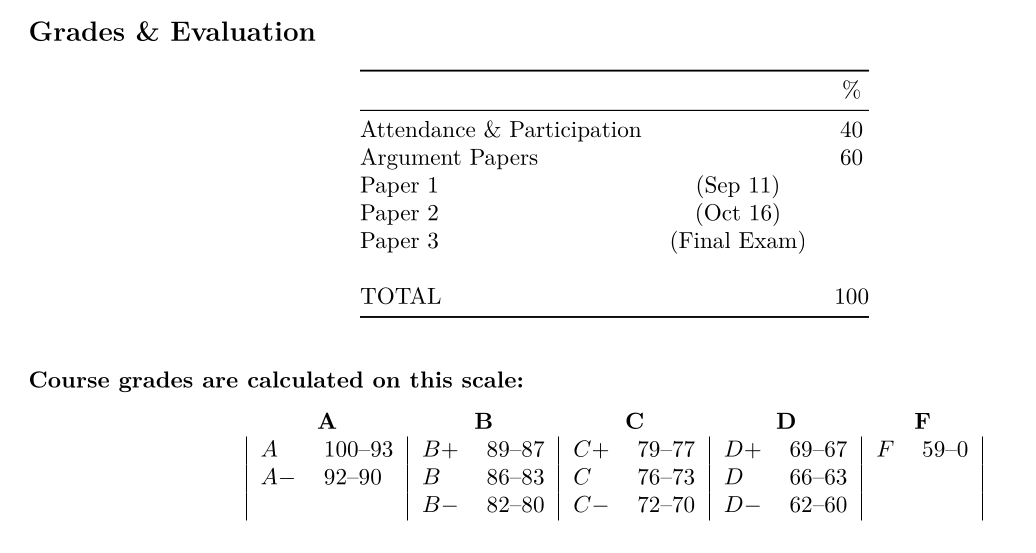
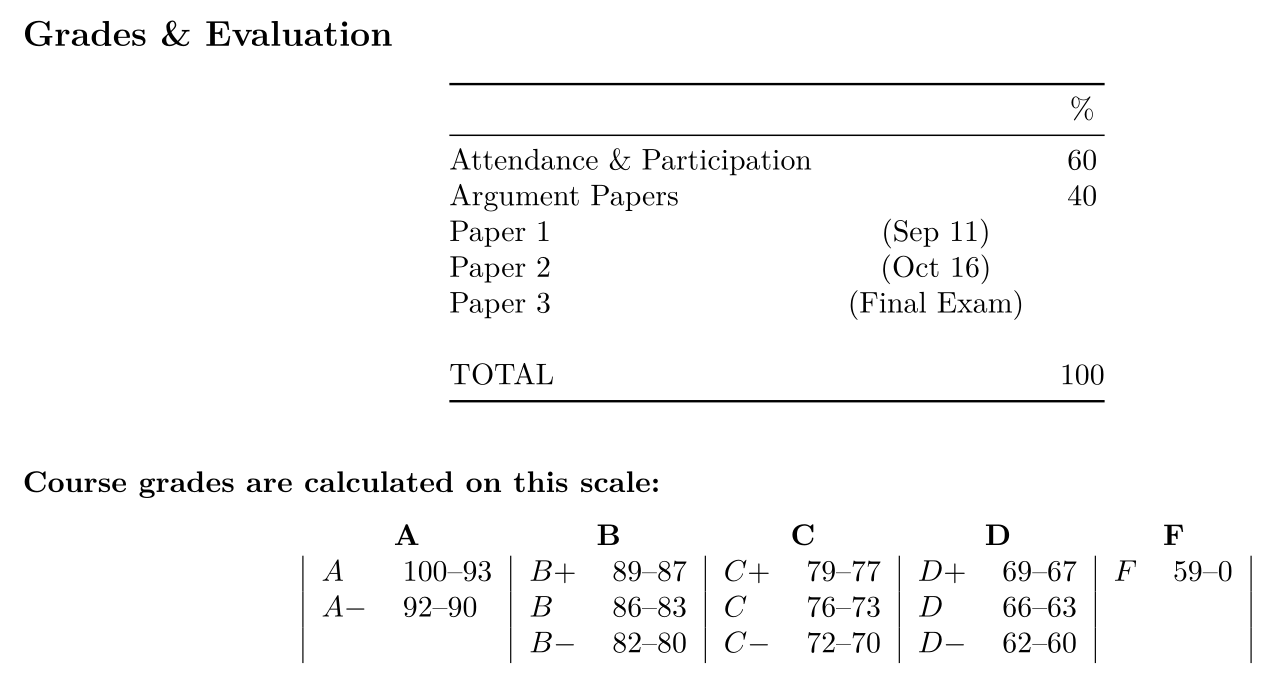
Ongoing tweaks

diff --git a/01-2-Arguments_Logic.html b/01-2-Arguments_Logic.html
@@ -135,8 +135,8 @@
 <div class="r-fit-text">
 <p><strong>I. Arguments, Evidence and International Relations</strong></p>
 <ol type="1">
-<li><p>The elements of effective arguments</p></li>
-<li><p>Evaluating our examples</p></li>
+<li><p>The components of an effective argument</p></li>
+<li><p>Diagramming our examples</p></li>
 </ol>
 </div>
 <p><br></p>
@@ -191,9 +191,18 @@
 </div>
 </div>
 <aside class="notes">
-<p><strong>Any questions on the course, its structure or the policies in the syllabus?</strong></p>
+<p><em>Since new students have likely joined hit these components on the slide</em></p>
+<ul>
+<li><em>AND DON’T FORGET, you have to click the tabs on the slide, not on your version of it</em></li>
+</ul>
 <p><br></p>
-<p><strong>SLIDE</strong>: Ok, let’s turn our attention to making and evaluating arguments</p>
+<ol type="1">
+<li><p><strong>Any questions on the components of your grade in this class?</strong></p></li>
+<li><p><strong>Is everybody clear on the attendace and participation policies?</strong></p></li>
+<li><p>**Any questions on the AI usage policy in this class?*</p></li>
+</ol>
+<p><br></p>
+<p><strong>SLIDE</strong>: Ok, today we focus on diagramming and evaluating arguments</p>
 <style type="text/css">
         span.MJX_Assistive_MathML {
           position:absolute!important;
@@ -206,44 +215,17 @@
           display:block!important;
       }</style></aside>
 </section>
-<section id="unpacking-an-argument" class="slide level2 center" data-background-image="Images/background-worldmap4.png">
-<h2>Unpacking an Argument</h2>
+<section id="what-is-an-argument" class="slide level2 center" data-background-image="Images/background-worldmap4.png">
+<h2>What is an Argument?</h2>
 
-<img data-src="Images/01_1-woman-desk-paperwork.webp" style="display: block; margin: 0 auto" class="r-stretch"><aside class="notes">
-<p><strong>Before we talk about the arguments themselves, how did the task go for you?</strong></p>
+<img data-src="Images/01_2-Girl_yells_yak.jpg" style="display: block; margin: 0 auto" class="r-stretch"><aside class="notes">
+<p><strong>Ok, big picture, what is “an argument”?</strong></p>
+<p><em>Spitballing</em></p>
 <ul>
-<li><strong>How often have you been asked to do this kind of exercise before?</strong></li>
-</ul>
-<p><br></p>
-<p><strong>SLIDE</strong>: Let’s start by talking about the quality of an argument.</p>
-<style type="text/css">
-        span.MJX_Assistive_MathML {
-          position:absolute!important;
-          clip: rect(1px, 1px, 1px, 1px);
-          padding: 1px 0 0 0!important;
-          border: 0!important;
-          height: 1px!important;
-          width: 1px!important;
-          overflow: hidden!important;
-          display:block!important;
-      }</style></aside>
-</section>
-<section id="section" class="slide level2 center" data-background-image="Images/01_2-Girl_yells_yak.jpg">
-<h2></h2>
-<aside class="notes">
-<p>Bad arguments are everywhere and are common in the political arena.</p>
-<ul>
-<li><p>In fact, when you say “politics” I think many people’s minds go to something like this.</p></li>
-<li><p>Clearly this is not what we aspire to.</p></li>
-</ul>
-<p><br></p>
-<p>In academic terms, our definition of a good argument tends to focus on whether it convinces you of its thesis</p>
-<ul>
-<li><p><strong>What is a thesis?</strong></p>
-<ul>
-<li><p>(The central idea of your argument.)</p></li>
-<li><p>The thing you want people to take away from it.</p></li>
-</ul></li>
+<li><p>(Two or more viewpoints clashing on a topic?)</p></li>
+<li><p>(An effort to convince another person of your viewpoint?)</p></li>
+<li><p>(A screaming match?)</p></li>
+<li><p>(A competition?)</p></li>
 </ul>
 <p><br></p>
 <p><strong>When was the last time in your life someone changed your mind about something with an argument?</strong></p>
@@ -252,10 +234,7 @@
 <li><p><strong>How specifically did they do it? Certain strategies employed?</strong></p></li>
 </ul>
 <p><br></p>
-<p>While being “convincing” is the goal, that’s also a subjective test of quality.</p>
-<ul>
-<li>In academia we have developed criteria that we argue are necessary for an argument to be convincing.</li>
-</ul>
+<p><strong>SLIDE</strong>: The aim of science</p>
 <style type="text/css">
         span.MJX_Assistive_MathML {
           position:absolute!important;
@@ -268,23 +247,48 @@
           display:block!important;
       }</style></aside>
 </section>
-<section id="to-be-convincing-an-argument-should-be-logical-clear-credible-and-critical" class="slide level2 center" data-background-image="Images/background-worldmap4.png">
-<h2>To be convincing an argument should be logical, clear, credible and critical</h2>
-<aside class="notes">
-<p>For the important arguments in our lives, concerning the issues we care most about, people demand you put in some serious work to shift their position.</p>
-<p><br></p>
-<p>FYI, this is the top line of the rubric I use to grade your papers in this class</p>
+<section id="science-and-arguments" class="slide level2 center" data-background-image="Images/background-worldmap4.png">
+<h2>Science and Arguments</h2>
+
+<img data-src="Images/01_2-quote-millions-saw-the-apple-fall.jpg" style="display: block; margin: 0 auto" class="r-stretch"><aside class="notes">
+<p>At a fundamental level, our aim in this class and in any science class is to explain <em>why</em></p>
 <ul>
-<li>The details are in the syllabus and you should definitely read and consider them when writing your papers</li>
+<li>Why do the things we see in the empirical world happen as they do?</li>
 </ul>
 <p><br></p>
-<p>Today in class we’ll be focusing on the logic piece of a convincing argument</p>
+<p>The challenge is that “why” answers can never be proved using inductive reasoning</p>
 <ul>
-<li><p>The Labossiere reading gave you the basic elements, and</p></li>
-<li><p>The newspaper op-eds will give us something to evaluate in these terms</p></li>
+<li><p>This means that ALL scientific conversations are arguments</p></li>
+<li><p>Each argument represents an idea that, hopefully, explains some “why” in the world</p></li>
+<li><p>Your job as a scientist is to show your work in order to convince others that your answer is useful!</p></li>
 </ul>
 <p><br></p>
-<p><strong>SLIDE</strong>: Let’s start with Labossiere and the basics</p>
+<p><strong>Does that make sense?</strong></p>
+<p><br></p>
+<p><strong>SLIDE</strong>: This means we need to develop tools for understanding and analyzing arguments</p>
+<style type="text/css">
+        span.MJX_Assistive_MathML {
+          position:absolute!important;
+          clip: rect(1px, 1px, 1px, 1px);
+          padding: 1px 0 0 0!important;
+          border: 0!important;
+          height: 1px!important;
+          width: 1px!important;
+          overflow: hidden!important;
+          display:block!important;
+      }</style></aside>
+</section>
+<section id="diagramming-an-argument" class="slide level2 center" data-background-image="Images/background-worldmap4.png">
+<h2>Diagramming an Argument</h2>
+
+<img data-src="Images/01_1-woman-desk-paperwork.webp" style="display: block; margin: 0 auto" class="r-stretch"><aside class="notes">
+<p>For today I asked you to read and evaluate two op-ed style arguments</p>
+<ul>
+<li><p><strong>How did this go for you?</strong></p></li>
+<li><p><strong>How often have you been asked to do this kind of exercise before?</strong></p></li>
+</ul>
+<p><br></p>
+<p><strong>SLIDE</strong>: Let’s start with the Labossiere reading on the key components of an argument</p>
 <style type="text/css">
         span.MJX_Assistive_MathML {
           position:absolute!important;
@@ -437,7 +441,7 @@
           display:block!important;
       }</style></aside>
 </section>
-<section id="section-1" class="slide level2 center" data-background-image="Images/background-worldmap4.png">
+<section id="section" class="slide level2 center" data-background-image="Images/background-worldmap4.png">
 <h2></h2>
 <div class="r-fit-text">
 <p><strong>The Quality of Inductive Arguments: Weak to Strong</strong></p>
@@ -476,7 +480,7 @@
           display:block!important;
       }</style></aside>
 </section>
-<section id="section-2" class="slide level2 center" data-background-image="Images/background-worldmap4.png">
+<section id="section-1" class="slide level2 center" data-background-image="Images/background-worldmap4.png">
 <h2></h2>
 <div class="r-fit-text">
 <p><strong>The Quality of Inductive Arguments: Weak to Strong</strong></p>
@@ -525,7 +529,7 @@
           display:block!important;
       }</style></aside>
 </section>
-<section id="to-be-convincing-an-argument-should-be-logical-clear-credible-and-critical-1" class="slide level2 center" data-background-image="Images/background-worldmap4.png">
+<section id="to-be-convincing-an-argument-should-be-logical-clear-credible-and-critical" class="slide level2 center" data-background-image="Images/background-worldmap4.png">
 <h2>To be convincing an argument should be logical, clear, credible and critical</h2>
 <p><br></p>
 <div class="r-fit-text">
@@ -561,7 +565,7 @@
           display:block!important;
       }</style></aside>
 </section>
-<section id="section-3" class="slide level2 center" data-background-image="Images/background-worldmap4.png">
+<section id="section-2" class="slide level2 center" data-background-image="Images/background-worldmap4.png">
 <h2></h2>
 
 <img data-src="Images/01_2-VanReybrouck.png" style="display: block; margin: 0 auto" class="r-stretch"><aside class="notes">
@@ -586,7 +590,7 @@
           display:block!important;
       }</style></aside>
 </section>
-<section id="section-4" class="slide level2 center" data-background-image="Images/background-worldmap4.png">
+<section id="section-3" class="slide level2 center" data-background-image="Images/background-worldmap4.png">
 <h2></h2>
 
 <img data-src="Images/01_2-VanReybrouck.png" style="display: block; margin: 0 auto" class="r-stretch"><div class="r-fit-text">
@@ -612,7 +616,7 @@
           display:block!important;
       }</style></aside>
 </section>
-<section id="section-5" class="slide level2 center" data-background-image="Images/background-worldmap4.png">
+<section id="section-4" class="slide level2 center" data-background-image="Images/background-worldmap4.png">
 <h2></h2>
 
 <img data-src="Images/01_2-VanReybrouck.png" style="display: block; margin: 0 auto" class="r-stretch"><div class="r-fit-text">
@@ -673,7 +677,7 @@
           display:block!important;
       }</style></aside>
 </section>
-<section id="section-6" class="slide level2 center" data-background-image="Images/background-worldmap4.png">
+<section id="section-5" class="slide level2 center" data-background-image="Images/background-worldmap4.png">
 <h2></h2>
 <ul>
 <li>Leaders around the world are getting very, very old</li>
@@ -712,7 +716,7 @@
           display:block!important;
       }</style></aside>
 </section>
-<section id="section-7" class="slide level2 center" data-background-image="Images/background-worldmap4.png">
+<section id="section-6" class="slide level2 center" data-background-image="Images/background-worldmap4.png">
 <h2></h2>
 
 <img data-src="Images/01_2-Russia_ICC.png" style="display: block; margin: 0 auto" class="r-stretch"><aside class="notes">
@@ -737,7 +741,7 @@
           display:block!important;
       }</style></aside>
 </section>
-<section id="section-8" class="slide level2" data-background-image="Images/background-worldmap4.png">
+<section id="section-7" class="slide level2" data-background-image="Images/background-worldmap4.png">
 <h2></h2>
 <div class="r-fit-text">
 <p>What is the conclusion of this argument?</p>
@@ -763,7 +767,7 @@
           display:block!important;
       }</style></aside>
 </section>
-<section id="section-9" class="slide level2" data-background-image="Images/background-worldmap4.png">
+<section id="section-8" class="slide level2" data-background-image="Images/background-worldmap4.png">
 <h2></h2>
 
 <img data-src="Images/01_2-Russia_ICC.png" style="display: block; margin: 0 auto" class="r-stretch"><p>Therefore, the countries of the world should endorse the Special Tribunal for the Crime of Aggression Against Ukraine</p>
@@ -819,7 +823,7 @@
           display:block!important;
       }</style></aside>
 </section>
-<section id="section-10" class="slide level2 center smaller" data-background-image="Images/background-worldmap4.png">
+<section id="section-9" class="slide level2 center smaller" data-background-image="Images/background-worldmap4.png">
 <h2></h2>
 <ul>
 <li><p>Since the trials following WWII, the world has failed to adjudicate decisions to start wars</p></li>
@@ -856,7 +860,7 @@
           display:block!important;
       }</style></aside>
 </section>
-<section id="section-11" class="slide level2" data-background-image="Images/01_2-globe_and_lights.jpg">
+<section id="section-10" class="slide level2" data-background-image="Images/01_2-globe_and_lights.jpg">
 <h2></h2>
 <aside class="notes">
 <p>Our job over the next three classes is to lay the foundations we need to study international relations this semester.</p>

diff --git a/01-1-Welcome_to_IR.html b/01-1-Welcome_to_IR.html
@@ -709,11 +709,11 @@
 <img data-src="Images/01_1-Syllabus_pg1.png" class="r-stretch"><aside class="notes">
 <p>Your final grade in this class has two main components:</p>
 <ol type="1">
-<li><p>Your daily attendance and participation makes up almost half the grade!</p>
+<li><p>Your daily attendance and participation makes up MORE than half the grade!</p>
 <ul>
 <li>I want to incentivize you to come to class and to do the work</li>
 </ul></li>
-<li><p>The other half of the grade is made up of three papers</p>
+<li><p>The other portion of the grade is made up of three papers</p>
 <ul>
 <li>Each requiring you to make a high quality argument</li>
 </ul></li>
@@ -765,27 +765,17 @@
           display:block!important;
       }</style></aside>
 </section>
-<section id="the-answer-is-in-the-syllabus-part-4" class="slide level2 center" data-background-image="Images/background-worldmap4.png">
-<h2>The answer is in the syllabus (part 4)</h2>
+<section id="this-course-is-training-for-your-brain" class="slide level2 center" data-background-image="Images/background-worldmap4.png">
+<h2>This Course is Training for your Brain</h2>
 
-<img data-src="Images/01_1-No_AI_Tools.jpg" style="display: block; margin: 0 auto" class="r-stretch"><aside class="notes">
-<p><strong>Does everybody see the AI policy in the syllabus?</strong></p>
-<p><br></p>
-<p>You may not use any AI tools in this class.</p>
+<img data-src="Images/01_1-lifting_weights.gif" style="display: block; margin: 0 auto" class="r-stretch"><aside class="notes">
+<p>The time you spend in the gym getting stronger and more flexible makes you a better athlete regardless of the sport you end up playing.</p>
 <ul>
-<li>Any AI use will be treated as plagiarism.</li>
+<li><p>That’s what we’re doing in this class when we learn to critically analyze texts and become better writers.</p></li>
+<li><p>I’m getting you ready to succeed out in the real world</p></li>
 </ul>
 <p><br></p>
-<p>That means:</p>
-<ul>
-<li><p>No AI search</p></li>
-<li><p>No AI summaries of articles or books</p></li>
-<li><p>No AI for outlining or writing</p></li>
-<li><p>No AI for data analysis</p></li>
-<li><p>No AI to simply clean up your grammar (e.g.&nbsp;Grammarly).</p></li>
-</ul>
-<p><br></p>
-<p><strong>SLIDE</strong>: Think of this class like training to play a sport</p>
+<p><strong>SLIDE</strong>: Don’t cheat yourself</p>
 <style type="text/css">
         span.MJX_Assistive_MathML {
           position:absolute!important;
@@ -798,16 +788,10 @@
           display:block!important;
       }</style></aside>
 </section>
-<section id="this-course-is-training-for-your-brain" class="slide level2 center" data-background-image="Images/background-worldmap4.png">
-<h2>This Course is Training for your Brain</h2>
+<section id="this-is-not-the-exercise-you-need" class="slide level2 center" data-background-image="Images/background-worldmap4.png">
+<h2>This is Not the Exercise you Need</h2>
 
-<img data-src="Images/01_1-lifting_weights.gif" style="display: block; margin: 0 auto" class="r-stretch"><aside class="notes">
-<p>The time you spend in the gym getting stronger and more flexible makes you a better athlete regardless of the sport you end up playing.</p>
-<ul>
-<li><p>That’s what we’re doing in this class when we learn to critically analyze texts and become better writers.</p></li>
-<li><p>I’m getting you ready to succeed out in the real world</p></li>
-</ul>
-<p><br></p>
+<img data-src="Images/01_1-forklift.gif" style="display: block; margin: 0 auto" class="r-stretch"><aside class="notes">
 <p>Using AI tools is like bringing a forklift into the weight room.</p>
 <ul>
 <li>Yeah, you lifted the weights, but it was a waste of your time.</li>
@@ -826,8 +810,8 @@
           display:block!important;
       }</style></aside>
 </section>
-<section id="section-9" class="slide level2 center" data-background-image="Images/background-worldmap4.png">
-<h2></h2>
+<section id="this-course-is-training-for-your-brain-1" class="slide level2 center" data-background-image="Images/background-worldmap4.png">
+<h2>This Course is Training for your Brain</h2>
 
 <img data-src="Images/01_1-AI_dumber.png" style="display: block; margin: 0 auto" class="r-stretch"><aside class="notes">
 <p>Lots of people are worried about AI taking their jobs</p>
